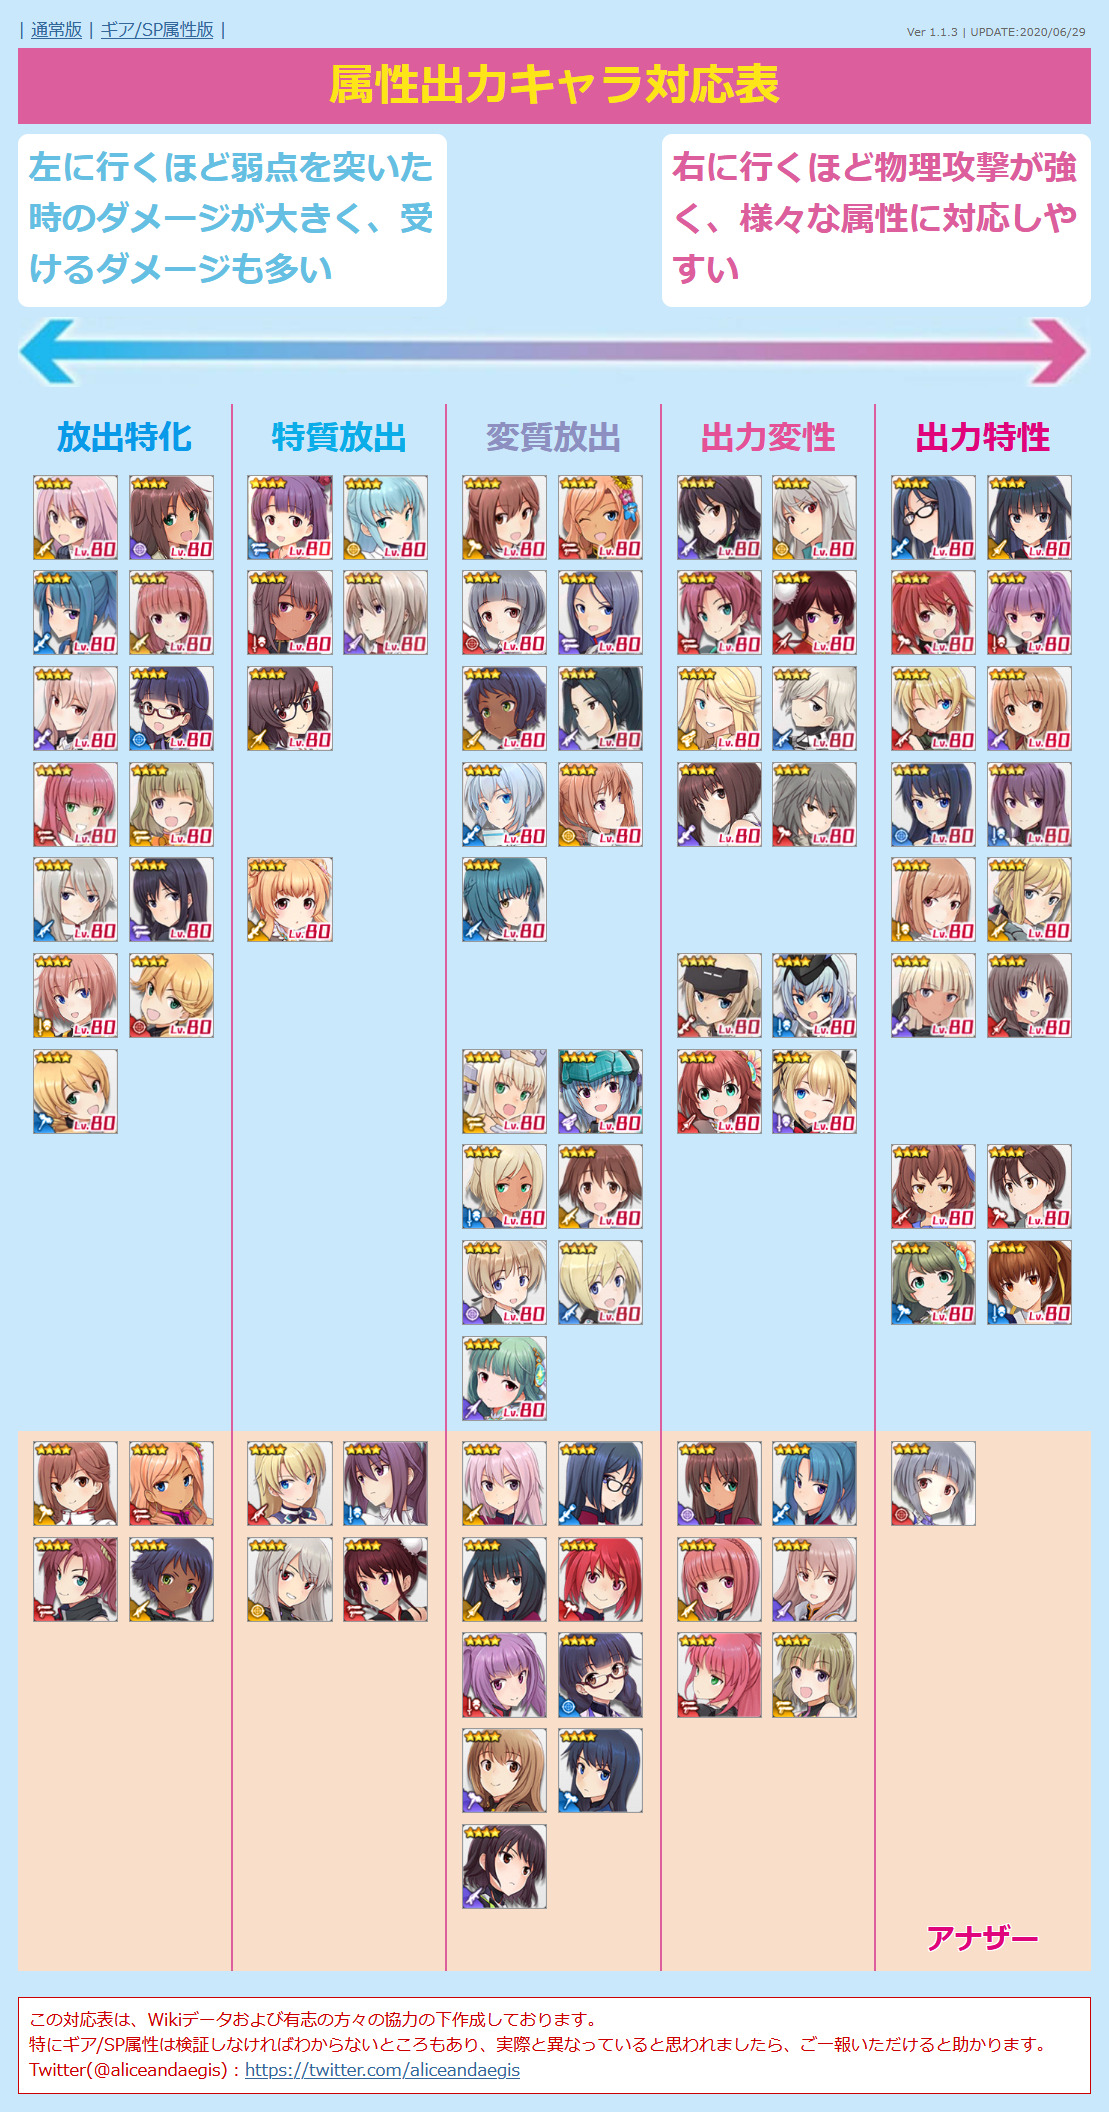
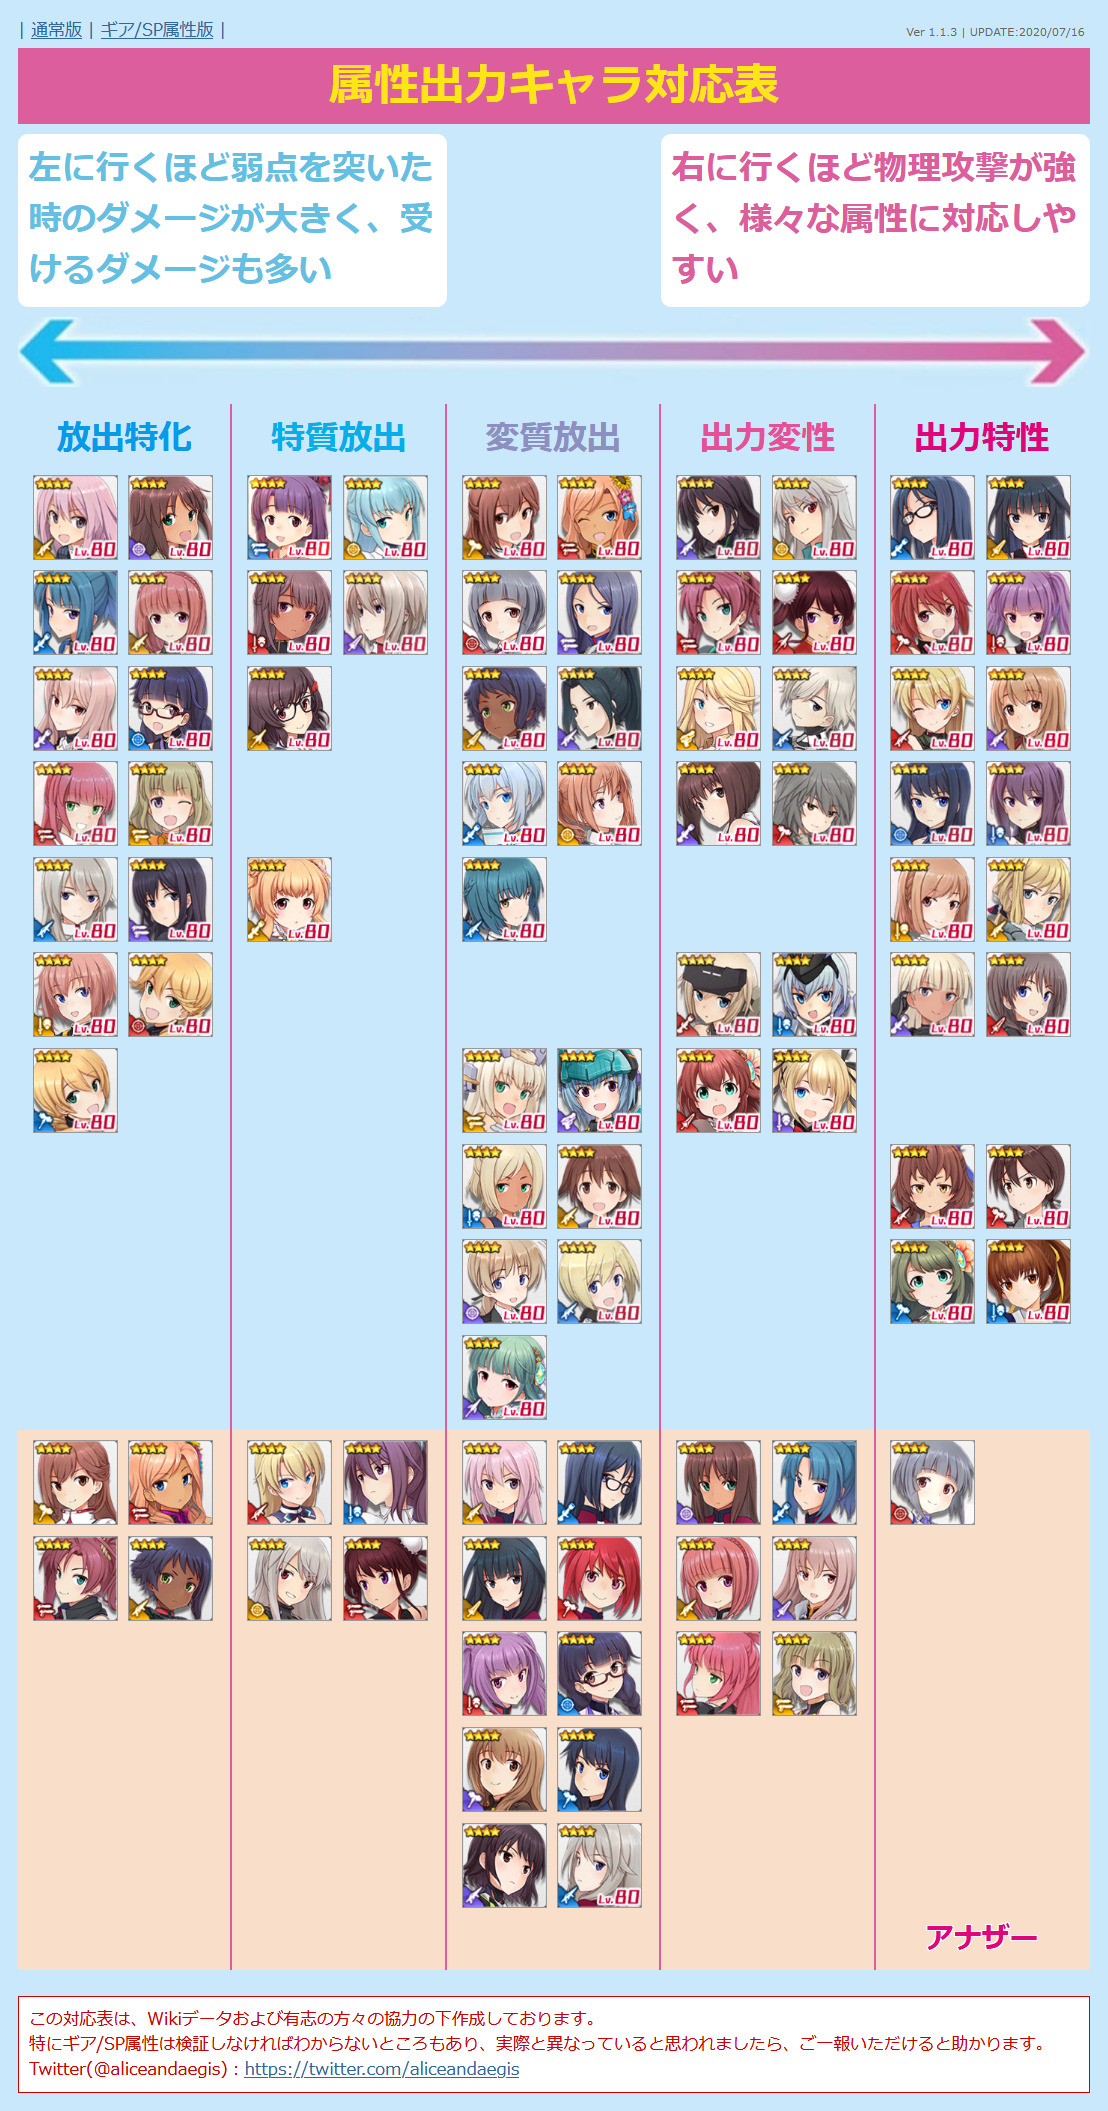
UPDATE chara data
紺堂 地衛理 / 晨星を追加（画像は暫定でLv80のを利用。後日Lv表記無しのに更新予定）

diff --git a/alice.html b/alice.html
@@ -12,7 +12,7 @@
   <script>
 
 /* 更新情報 必要に応じて書き換えてください */
-  var version = "Ver 1.1.3 | UPDATE:2020/06/29";
+  var version = "Ver 1.1.3 | UPDATE:2020/07/16";
 
 /*
   jsonファイルを外部に設置すると単にHTMLファイルを開いたときに動作しなくなるので当面はHTMLファイル内に
@@ -734,6 +734,20 @@
       "attr": "4",
       "link": "https://wikiwiki.jp/alicegear/%E7%B4%BA%E5%A0%82%E5%9C%B0%E8%A1%9B%E7%90%86",
       "category": ""
+    },
+    {
+      "id": "26",
+      "type": "3",
+      "src": "another-chieri.png",
+      "name": "紺堂 地衛理 / 晨星",
+      "equip1": "2",
+      "equip2": "3",
+      "equip3": "2",
+      "equip4": "5",
+      "sp": "25",
+      "attr": "4",
+      "link": "https://wikiwiki.jp/alicegear/%E7%B4%BA%E5%A0%82%E5%9C%B0%E8%A1%9B%E7%90%86%E6%99%A8%E6%98%9F",
+      "category": "10"
     },
     {
       "id": "27",

diff --git a/README.md b/README.md
@@ -50,5 +50,5 @@ index.htmlは削除しても構いません。
 
   [動作サンプル(Netlify)](https://aliceandaegis.netlify.app/alice.html) (GitHubと連動中)
 
-  [動作サンプル(StarFree)](http://aliceinfo.starfree.jp/alice.html) (暫定でフリーサーバレンタルのためいずれ消失します)
+  ~~[動作サンプル(StarFree)](http://aliceinfo.starfree.jp/alice.html) (暫定でフリーサーバレンタルのためいずれ消失します)~~
   
